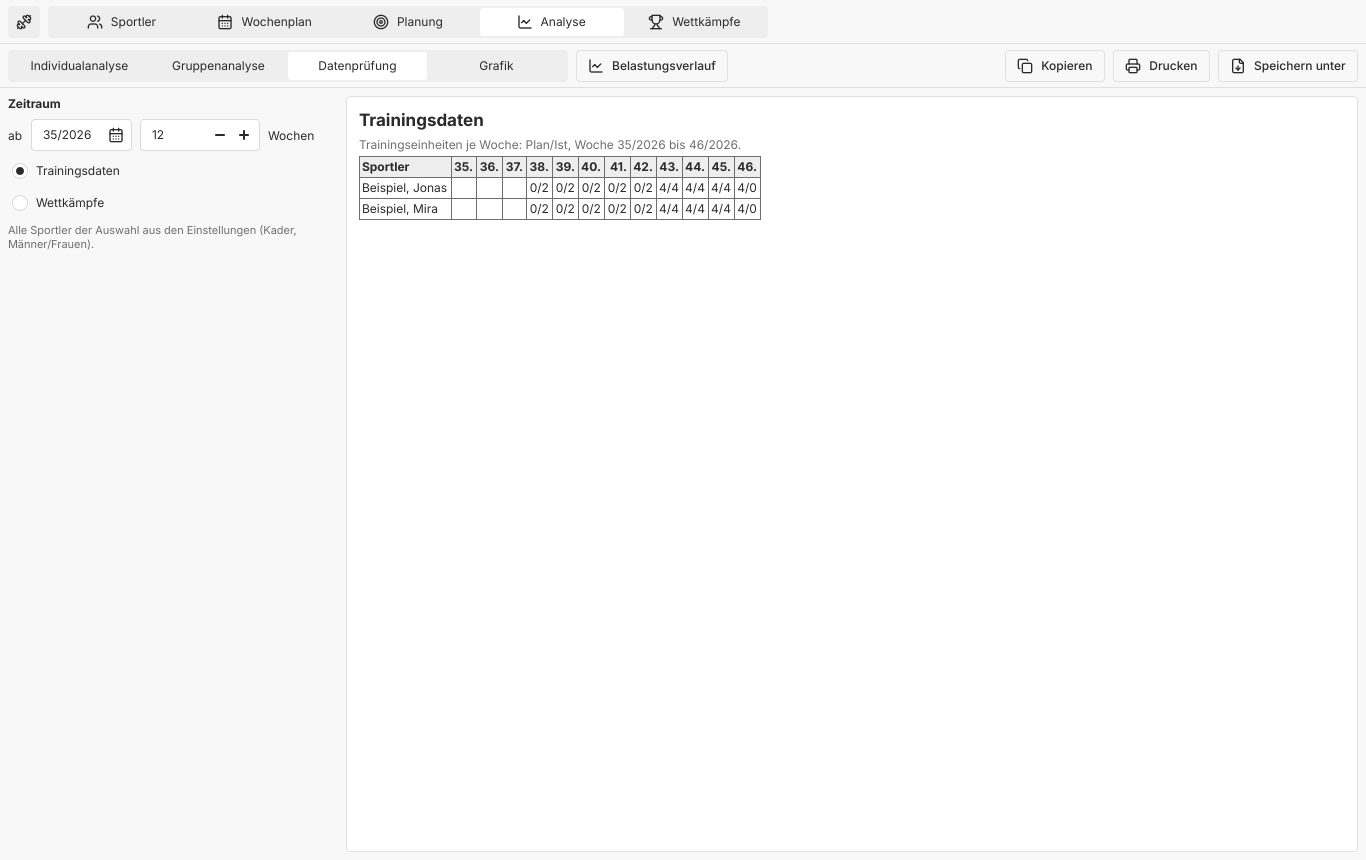
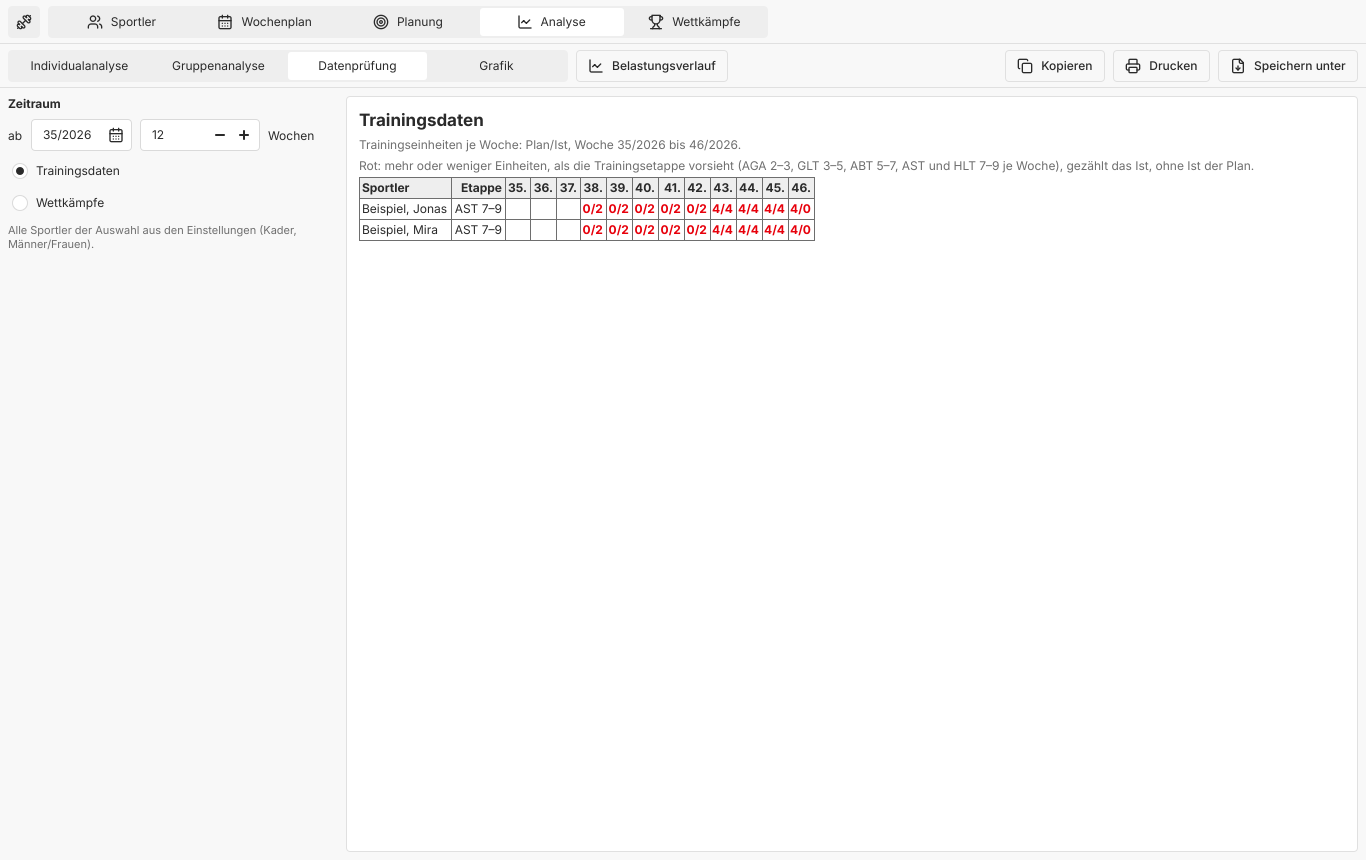
Show each athlete's training stage
The BVDG's long-term build-up divides the years into training stages
with sessions a week: AGA up to AK 13, GLT 14-15 (3-5), ABT 16-17
(5-7), AST 18-23 and HLT from 24 (7-9), as the IAT's factsheet of 2024
draws them. It gives no number for the AGA; 2-3 is the TMK 2018's for
children. The TMK agrees up to AK 17 and said 6-8 after it; the newer
factsheet goes first.

The athlete page names the stage of this year's age class beside the
age, the tip spelling out its sessions. The Datenprüfung gets an
Etappe column and shows in red a week with more or fewer sessions
than the stage of that week recommends, counting the Ist, else the
Plan; empty weeks stay unmarked.

For that, report cells can now be marked: red and bold on screen and
in the PDF.

Changed region(s): [[0.246, 0.1814, 0.9224, 0.2721]]

diff --git a/tests/tst_etappe.qml b/tests/tst_etappe.qml
@@ -1,0 +1,54 @@
+import QtQuick
+import QtTest
+import Trainingsplaner
+
+// The training stage (Etappe) of an athlete by age class, and the
+// Datenprüfung's weeks with more or fewer sessions than it recommends
+TestCase {
+    name: "Etappe"
+
+    property string athlete
+    readonly property string monday: "2030-01-07"
+
+    function initTestCase() {
+        // AK 16 in 2030: ABT, 5-7 sessions a week
+        athlete = Store.saveAthlete({ lastName: "Etappe", firstName: "Ella", sex: 1, born: "01.03.2014" })
+        const session = (day, number) => ({ day: day, number: number, entries: [
+            { kind: 0, exercise: 1, steps: [{ kg: 50, reps: 3, sets: 2 }] } ] })
+        // Week 1: 2 sessions done (too few); week 2: 5 planned, none done
+        Store.saveSession(athlete, monday, "I", session(1, 1))
+        Store.saveSession(athlete, monday, "I", session(3, 1))
+        for (const day of [1, 2, 3, 4, 5])
+            Store.saveSession(athlete, Store.addWeeks(monday, 1), "P", session(day, 1))
+        // Week 3: 4 planned, 6 done (the Ist counts)
+        for (const day of [1, 2, 3, 4])
+            Store.saveSession(athlete, Store.addWeeks(monday, 2), "P", session(day, 1))
+        for (const day of [1, 2, 3, 4, 5, 6])
+            Store.saveSession(athlete, Store.addWeeks(monday, 2), "I", session(day, 1))
+    }
+
+    function cleanupTestCase() {
+        Store.removeAthlete(athlete)
+    }
+
+    function test_athlete() {
+        const a = Store.athletes.find(x => x.id === athlete)
+        // This year's age class decides
+        const ak = Number(Store.today().slice(0, 4)) - 2014
+        const expected = ak <= 13 ? "AGA" : ak <= 15 ? "GLT" : ak <= 17 ? "ABT" : ak <= 23 ? "AST" : "HLT"
+        compare(a.etappe, expected)
+        verify(a.etappeText.indexOf(expected + " (") === 0)
+    }
+
+    function test_dataCheck() {
+        const report = Analysis.dataCheck({ from: "2/2030", weeks: 4, mode: 0,
+                                          athletes: [{ id: athlete, displayName: "Etappe, Ella" }] })
+        const table = report.blocks.find(b => b.kind === "table")
+        compare(table.rows[0].map(c => c.t), ["Sportler", "Etappe", "2.", "3.", "4.", "5."])
+        const row = table.rows[1]
+        compare(row.map(c => c.t), ["Etappe, Ella", "ABT 5–7", "0/2", "5/0", "4/6", ""])
+        // Too few done; enough planned without an Ist; enough done; empty
+        compare(row.slice(2).map(c => !!c.w), [true, false, false, false])
+        verify(report.blocks.some(b => b.kind !== "table" && b.text.indexOf("Rot:") === 0))
+    }
+}

diff --git a/qml/ReportView.qml b/qml/ReportView.qml
@@ -124,6 +124,8 @@ ColumnLayout {
                 required property int kind
                 required property bool bold
                 required property bool muted
+                // Outside what is recommended (a week's sessions for the age)
+                required property bool warn
                 required property bool alignLeft
                 readonly property bool inTable: kind === ReportModel.Header || kind === ReportModel.Cell
 
@@ -152,15 +154,16 @@ ColumnLayout {
                     textFormat: Text.PlainText
                     font: cell.kind === ReportModel.Title ? view.titleFont
                           : cell.kind === ReportModel.Heading ? view.headingFont
-                          : cell.bold ? view.boldFont : sample.font
+                          : cell.bold || cell.warn ? view.boldFont : sample.font
                     horizontalAlignment: cell.inTable && !cell.alignLeft ? Text.AlignRight : Text.AlignLeft
                     verticalAlignment: cell.kind === ReportModel.Title || cell.kind === ReportModel.Heading
                                        ? Text.AlignBottom
                                        : cell.kind === ReportModel.Note ? Text.AlignTop : Text.AlignVCenter
                     topPadding: cell.kind === ReportModel.Note ? 2 : 0
                     bottomPadding: cell.kind === ReportModel.Title || cell.kind === ReportModel.Heading ? 4 : 0
-                    color: cell.muted ? Styles.TokenInterface.semantics.text_muted
-                                      : Styles.TokenInterface.semantics.text_default
+                    color: cell.warn ? Styles.TokenInterface.semantics.danger_default
+                           : cell.muted ? Styles.TokenInterface.semantics.text_muted
+                                        : Styles.TokenInterface.semantics.text_default
                 }
             }
         }

diff --git a/qml/HelpDialog.qml b/qml/HelpDialog.qml
@@ -162,7 +162,8 @@ AppDialog {
                           + "z. B. 90 % nach einer Krankheit. Den Richtwert des TMK für die WH je Woche nennen die Spalten "
                           + "K1–K6 und K1-7 und zeigt der Belastungsverlauf als violette Linie.<br><br>"
                           + "<b>Analyse:</b> Abschnittsanalyse über beliebige Wochen oder eine MAZ, Grafik je Übung, "
-                          + "Belastungstabellen. Die Tabellen stehen sofort da und folgen den Einstellungen. „Kopieren“ "
+                          + "Belastungstabellen. Die Datenprüfung zeigt rot die Wochen mit mehr oder weniger Einheiten, als die "
+                          + "Trainingsetappe (AGA, GLT, ABT, AST, HLT nach der AK) vorsieht. Die Tabellen stehen sofort da und folgen den Einstellungen. „Kopieren“ "
                           + "legt sie für eine Tabellenkalkulation in die Zwischenablage, „Speichern unter“ schreibt ein PDF "
                           + "oder eine CSV-Datei. Grafiken zeigen beim Darüberfahren die Werte und lassen sich als Bild speichern.<br><br>"
                           + "<b>Wettkämpfe:</b> Versuche eintragen, einen Fehlversuch mit der Leertaste oder einem Rechtsklick im Feld als ungültig markieren (rot, durchgestrichen), und die Entwicklung als Grafik ansehen.<br><br>"

diff --git a/qml/AthletesPage.qml b/qml/AthletesPage.qml
@@ -29,7 +29,8 @@ Page {
             const item = attributeRepeater.itemAt(i)
             item.value = attrs[item.art] || ""
         }
-        ageLabel.text = a && a.age >= 0 ? a.age + " Jahre" : ""
+        ageLabel.text = a && a.age >= 0 ? a.age + " Jahre" + (a.etappe ? " · Etappe " + a.etappe : "") : ""
+        ageLabel.etappeText = a ? a.etappeText : ""
         dirty = false
         lastNameField.forceActiveFocus()
     }
@@ -173,10 +174,17 @@ Page {
                     text: "Datum ungültig"
                     color: Styles.TokenInterface.semantics.danger_default
                 }
+                // The age and the training stage of this year (AGA, GLT,
+                // ABT, AST, HLT), which the tip spells out
                 Label {
                     id: ageLabel
+                    objectName: "ageLabel"
+                    property string etappeText
                     visible: page.bornValid
                     color: Styles.TokenInterface.semantics.text_muted
+                    HoverHandler { id: ageHover }
+                    ToolTip.visible: ageHover.hovered && etappeText !== ""
+                    ToolTip.text: "Trainingsetappe " + etappeText
                 }
             }
 

diff --git a/src/analysisapi.cpp b/src/analysisapi.cpp
@@ -6,6 +6,8 @@
 #include "database.h"
 #include "planning.h"
 #include "report.h"
+#include "tmk.h"
+#include "youth.h"
 
 #include <QClipboard>
 #include <QDesktopServices>
@@ -437,7 +439,7 @@ QVariantMap AnalysisApi::dataCheck(const QVariantMap &p) const
     const QString range = QStringLiteral("Woche %1 bis %2.").arg(Weeks::label(from), Weeks::label(from.addDays(7 * (weeks - 1))));
     QList<Cells> rows;
     if (!competitions) {
-        QStringList head{QStringLiteral("Sportler")};
+        QStringList head{QStringLiteral("Sportler"), QStringLiteral("Etappe")};
         for (int i = 0; i < weeks; ++i)
             head.append(QStringLiteral("%1.").arg(from.addDays(7 * i).weekNumber()));
         rows.append(Report::cells(head));
@@ -446,12 +448,25 @@ QVariantMap AnalysisApi::dataCheck(const QVariantMap &p) const
             const QString id = a.value(QStringLiteral("id")).toString();
             const QList<int> plan = sessionCounts(id, from, weeks, Variant::Plan);
             const QList<int> actual = sessionCounts(id, from, weeks, Variant::Actual);
-            QStringList r{a.value(QStringLiteral("displayName")).toString()};
-            for (int i = 0; i < weeks; ++i)
-                r.append(plan[i] || actual[i] ? QStringLiteral("%1/%2").arg(plan[i]).arg(actual[i]) : QString());
-            rows.append(Report::cells(r));
+            // The training stage by the age class of each week: its
+            // sessions a week, against the Ist, or the Plan without one
+            const QDate born = Database::athlete(id).born;
+            const Tmk::Etappe first = Tmk::etappe(Youth::ageClass(born, from));
+            Cells r{Cell{a.value(QStringLiteral("displayName")).toString()},
+                    Cell{first.code.isEmpty() ? QString()
+                                              : QStringLiteral("%1 %2–%3").arg(first.code).arg(first.minSessions).arg(first.maxSessions)}};
+            for (int i = 0; i < weeks; ++i) {
+                Cell c{plan[i] || actual[i] ? QStringLiteral("%1/%2").arg(plan[i]).arg(actual[i]) : QString()};
+                const Tmk::Etappe e = Tmk::etappe(Youth::ageClass(born, from.addDays(7 * i)));
+                const int n = actual[i] > 0 ? actual[i] : plan[i];
+                c.warn = n > 0 && !e.code.isEmpty() && (n < e.minSessions || n > e.maxSessions);
+                r.append(c);
+            }
+            rows.append(r);
         }
         doc.note(QStringLiteral("Trainingseinheiten je Woche: Plan/Ist, ") + range);
+        doc.note(QStringLiteral("Rot: mehr oder weniger Einheiten, als die Trainingsetappe vorsieht (AGA 2–3, GLT 3–5, "
+                                "ABT 5–7, AST und HLT 7–9 je Woche), gezählt das Ist, ohne Ist der Plan."));
         doc.table(rows);
         return Report::toVariant(doc);
     }

diff --git a/src/report.cpp b/src/report.cpp
@@ -56,6 +56,8 @@ QVariantMap toVariant(const Document &d)
                         cell.insert(QStringLiteral("b"), true);
                     if (c.muted)
                         cell.insert(QStringLiteral("m"), true);
+                    if (c.warn)
+                        cell.insert(QStringLiteral("w"), true);
                     row.append(cell);
                 }
                 rows.append(QVariant(row));
@@ -83,7 +85,7 @@ Document fromVariant(const QVariantMap &v)
                 for (const QVariant &cv : rv.toList()) {
                     const QVariantMap c = cv.toMap();
                     row.append(Cell{c.value(QStringLiteral("t")).toString(), c.value(QStringLiteral("b")).toBool(),
-                                    c.value(QStringLiteral("m")).toBool()});
+                                    c.value(QStringLiteral("m")).toBool(), c.value(QStringLiteral("w")).toBool()});
                 }
                 rows.append(row);
             }
@@ -172,6 +174,7 @@ QFont font(double pt, bool bold = false)
 const QColor kText(0x2a, 0x2a, 0x2a);
 const QColor kNoteText(0x6b, 0x65, 0x60);
 const QColor kMuted(0xa3, 0x9d, 0x98);
+const QColor kWarn(0xc0, 0x39, 0x2b);
 const QColor kLine(0x80, 0x80, 0x80);
 const QColor kHeader(0xf1, 0xef, 0xed);
 
@@ -261,8 +264,8 @@ public:
                     m_p.fillRect(box, kHeader);
                 if (c < row.size() && !row[c].text.isEmpty()) {
                     const Cell &cell = row[c];
-                    m_p.setFont(header || cell.bold ? bold : body);
-                    m_p.setPen(cell.muted ? kMuted : kText);
+                    m_p.setFont(header || cell.bold || cell.warn ? bold : body);
+                    m_p.setPen(cell.warn ? kWarn : cell.muted ? kMuted : kText);
                     m_p.drawText(box.adjusted(padX, 0, -padX, 0),
                                  Qt::AlignVCenter | (c == 0 ? Qt::AlignLeft : Qt::AlignRight), cell.text);
                 }

diff --git a/tests/tst_core.cpp b/tests/tst_core.cpp
@@ -42,6 +42,7 @@ private slots:
     void youthRules();
     void tmkCaps();
     void tmkVolumes();
+    void etappen();
     void statsMatchOldProgram();
     void entryEncoding();
     void weekLabels();
@@ -180,6 +181,24 @@ void TestCore::tmkCaps()
         }
     }
     QVERIFY(checked > 500);
+}
+
+// The training stages and their sessions a week (IAT factsheet 2024)
+void TestCore::etappen()
+{
+    QCOMPARE(Tmk::etappe(0).code, QString());
+    QCOMPARE(Tmk::etappe(11).code, QStringLiteral("AGA"));
+    QCOMPARE(Tmk::etappe(13).maxSessions, 3);
+    QCOMPARE(Tmk::etappe(14).code, QStringLiteral("GLT"));
+    QCOMPARE(Tmk::etappe(15).minSessions, 3);
+    QCOMPARE(Tmk::etappe(16).code, QStringLiteral("ABT"));
+    QCOMPARE(Tmk::etappe(17).maxSessions, 7);
+    QCOMPARE(Tmk::etappe(18).code, QStringLiteral("AST"));
+    QCOMPARE(Tmk::etappe(23).code, QStringLiteral("AST"));
+    QCOMPARE(Tmk::etappe(24).code, QStringLiteral("HLT"));
+    QCOMPARE(Tmk::etappe(30).minSessions, 7);
+    QCOMPARE(Tmk::etappeText(16), QStringLiteral("ABT (Aufbautraining), 5–7 Trainingseinheiten je Woche"));
+    QCOMPARE(Tmk::etappeText(0), QString());
 }
 
 // The TMK's WH a week per stage, and the RTK's framework plans around it

diff --git a/src/tmk.cpp b/src/tmk.cpp
@@ -166,4 +166,30 @@ bool exemptInCompetition(int exercise, const QString &position)
     return (exercise == 1 || exercise == 3) && (p == QLatin1String("WK") || p == QLatin1String("HWK"));
 }
 
+Etappe etappe(int ageClass)
+{
+    if (ageClass <= 0)
+        return {};
+    if (ageClass <= 13)
+        return {QStringLiteral("AGA"), QStringLiteral("Allgemeine Grundausbildung"), 2, 3};
+    if (ageClass <= 15)
+        return {QStringLiteral("GLT"), QStringLiteral("Grundlagentraining"), 3, 5};
+    if (ageClass <= 17)
+        return {QStringLiteral("ABT"), QStringLiteral("Aufbautraining"), 5, 7};
+    if (ageClass <= 23)
+        return {QStringLiteral("AST"), QStringLiteral("Anschlusstraining"), 7, 9};
+    return {QStringLiteral("HLT"), QStringLiteral("Hochleistungstraining"), 7, 9};
+}
+
+QString etappeText(int ageClass)
+{
+    const Etappe e = etappe(ageClass);
+    if (e.code.isEmpty())
+        return {};
+    return QStringLiteral("%1 (%2), %3–%4 Trainingseinheiten je Woche")
+        .arg(e.code, e.name)
+        .arg(e.minSessions)
+        .arg(e.maxSessions);
+}
+
 } // namespace Tmk

diff --git a/src/tmk.h b/src/tmk.h
@@ -40,4 +40,22 @@ int weeklyWh(int complex, Stage s);
 // the competition goes to 100 % and more, so no cap
 bool exemptInCompetition(int exercise, const QString &position);
 
+// The training stages (Trainingsetappen) of the BVDG's long-term build-up
+// by age class, with the training sessions a week, after the IAT's
+// factsheet (2024): AGA up to AK 13 (2-3 a week, from the TMK 2018, the
+// factsheet gives none), GLT 14-15 (3-5), ABT 16-17 (5-7), AST 18-23 and
+// HLT from 24 (7-9). Up to AK 17 the TMK 2018 says the same; from 18 on
+// it said 6-8.
+struct Etappe
+{
+    QString code;    // "ABT"
+    QString name;    // "Aufbautraining"
+    int minSessions = 0;
+    int maxSessions = 0;
+};
+// None (empty code) without an age class
+Etappe etappe(int ageClass);
+// "ABT (Aufbautraining), 5–7 Trainingseinheiten je Woche"; "" without one
+QString etappeText(int ageClass);
+
 } // namespace Tmk

diff --git a/src/store.cpp b/src/store.cpp
@@ -10,6 +10,7 @@
 #include "planning.h"
 #include "printpreview.h"
 #include "report.h"
+#include "tmk.h"
 #include "youth.h"
 #include "weekreport.h"
 
@@ -264,6 +265,9 @@ QVariantList Store::athletes() const
             {QStringLiteral("sex"), int(a.sex)},
             {QStringLiteral("born"), Dates::text(a.born)},
             {QStringLiteral("age"), age},
+            // The training stage of this year's age class
+            {QStringLiteral("etappe"), Tmk::etappe(Youth::ageClass(a.born, today)).code},
+            {QStringLiteral("etappeText"), Tmk::etappeText(Youth::ageClass(a.born, today))},
             {QStringLiteral("address"), a.address},
             {QStringLiteral("phone"), a.phone},
             {QStringLiteral("attributes"), attributes},

diff --git a/src/reportmodel.cpp b/src/reportmodel.cpp
@@ -172,6 +172,8 @@ QVariant ReportModel::data(const QModelIndex &index, int role) const
                || (inTable && c < l.cells.size() && l.cells[c].bold);
     case MutedRole:
         return l.kind == Note || (inTable && c < l.cells.size() && l.cells[c].muted);
+    case WarnRole:
+        return inTable && c < l.cells.size() && l.cells[c].warn;
     case LeftRole:
         return c == 0;
     }
@@ -184,5 +186,6 @@ QHash<int, QByteArray> ReportModel::roleNames() const
             {KindRole, "kind"},
             {BoldRole, "bold"},
             {MutedRole, "muted"},
+            {WarnRole, "warn"},
             {LeftRole, "alignLeft"}};
 }

diff --git a/src/reportmodel.h b/src/reportmodel.h
@@ -28,7 +28,7 @@ class ReportModel : public QAbstractTableModel
 public:
     enum Kind { Title, Heading, Note, Header, Cell, Blank };
     Q_ENUM(Kind)
-    enum Roles { KindRole = Qt::UserRole + 1, BoldRole, MutedRole, LeftRole };
+    enum Roles { KindRole = Qt::UserRole + 1, BoldRole, MutedRole, LeftRole, WarnRole };
 
     explicit ReportModel(QObject *parent = nullptr);
 
